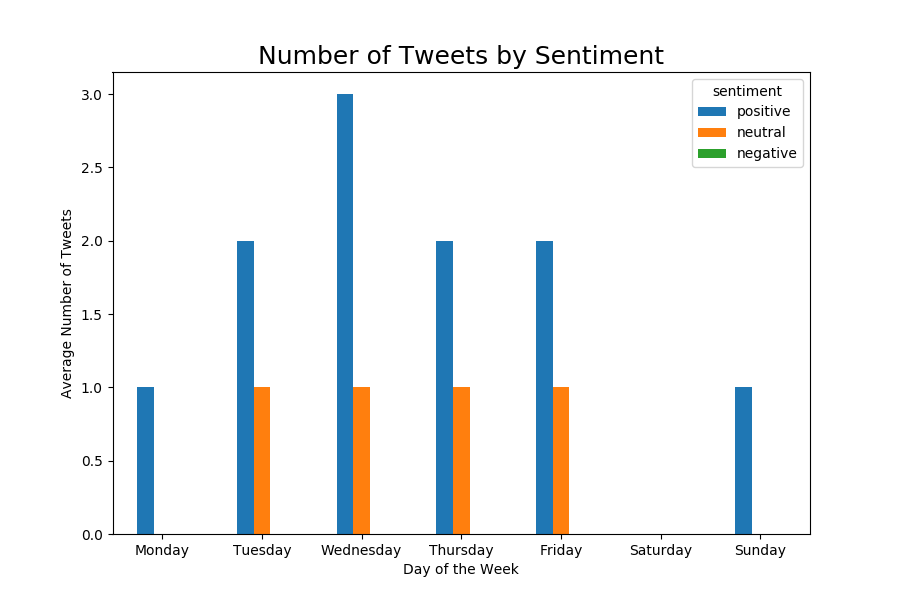
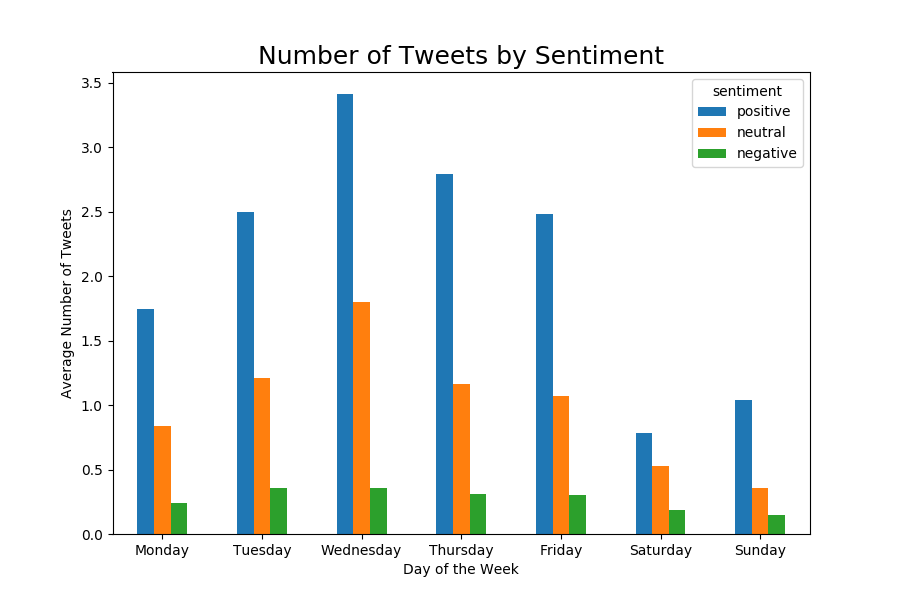
fwoop fixed it maybe

diff --git a/ShawTimelineAnalysis.py b/ShawTimelineAnalysis.py
@@ -22,6 +22,10 @@ auth = tweepy.OAuthHandler(consumer_key, consumer_secret)
 auth.set_access_token(access_token, access_token_secret)
 api = tweepy.API(auth,wait_on_rate_limit=True)
 
+################################################################################################
+# HELPER STUFF
+################################################################################################
+
 # Source: http://www.geeksforgeeks.org/twitter-sentiment-analysis-using-python/
 def get_tweet_sentiment(tweet):
     '''
@@ -39,7 +43,6 @@ def get_tweet_sentiment(tweet):
     else:
         return 'negative'
 
-
 # Source: https://stackoverflow.com/questions/6170246/how-do-i-use-matplotlib-autopct
 def make_autopct(values):
     def my_autopct(pct):
@@ -47,6 +50,23 @@ def make_autopct(values):
         val = int(round(pct*total/100.0))
         return '{p:.2f}%  ({v:d})'.format(p=pct,v=val)
     return my_autopct
+
+def get_sentiment_by_day(df):
+    df['sentiment'] = df.apply(lambda x: get_tweet_sentiment(x['text']), axis=1)
+    df['tweet_date'] = pd.to_datetime(df['tweet_date'])
+    df['day_of_week'] = df['tweet_date'].dt.weekday_name
+    df['week_index'] = df['tweet_date'].dt.weekday
+
+    df.sort_values('week_index', inplace=True)
+    df = df.drop(['week_index','text'],axis=1)
+    grouped = df.groupby(['sentiment','day_of_week'], sort=False)['day_of_week'].count().unstack('sentiment').fillna(0)
+
+    return grouped
+
+
+################################################################################################
+# PLOT STUFF
+################################################################################################
 
 # Reference: https://plot.ly/matplotlib/bar-charts/#matplotlib-bar-chart-with-dates
 # Creates a pie chart of postive/negative/neutral for tweets
@@ -74,18 +94,6 @@ def plot_sentiment_numbers(source,df):
         plt.tight_layout()
         plt.show()
 
-def get_sentiment_by_day(df):
-    df['sentiment'] = df.apply(lambda x: get_tweet_sentiment(x['text']), axis=1)
-    df['tweet_date'] = pd.to_datetime(df['tweet_date'])
-    df['day_of_week'] = df['tweet_date'].dt.weekday_name
-    df['week_index'] = df['tweet_date'].dt.weekday
-
-    df.sort_values('week_index', inplace=True)
-    df = df.drop(['week_index','text'],axis=1)
-    grouped = df.groupby(['sentiment','day_of_week'], sort=False)['day_of_week'].count().unstack('sentiment').fillna(0)
-
-    return grouped
-
 # Creates a bar chart for the TOTAL number of tweets by sentiment for each day of the week
 def plot_sentiment_per_day(source,df):
     if not df.empty:
@@ -106,14 +114,18 @@ def plot_avg_per_day(source,df):
     if not df.empty:
         grouped = get_sentiment_by_day(df)
 
+        print(grouped)
+
         df.sort_values('tweet_date', inplace=True)
         monday1 = (df.tweet_date[0] - timedelta(days=df.tweet_date[0].weekday()))
         monday2 = (df.tweet_date[len(df.index) - 1] - timedelta(days=df.tweet_date[len(df.index) - 1].weekday()))
-        total_weeks = (monday1 - monday2).days / 7
+        total_weeks = float ((monday1 - monday2).days / 7)
 
-        grouped['positive'] = grouped.apply(lambda x: x['positive'] / total_weeks, axis=1)
-        grouped['negative'] = grouped.apply(lambda x: x['negative'] / total_weeks, axis=1)
-        grouped['neutral'] = grouped.apply(lambda x: x['neutral'] / total_weeks, axis=1)
+        sentiments = ['positive','neutral','negative']
+        for s in sentiments:
+            grouped[s] = grouped.apply(lambda x: x[s] / total_weeks, axis=1)
+
+        print(grouped)
 
         fig = grouped.plot(kind='bar',stacked=False,rot='horizontal',figsize=(9,6), title='Number of Tweets by Sentiment')
         fig.set_xlabel("Day of the Week")
@@ -124,6 +136,11 @@ def plot_avg_per_day(source,df):
 
         plt.tight_layout()
         plt.show()
+
+
+################################################################################################
+# MAIN STUFF
+################################################################################################
 
 users = ['ShawHelp','ShawInfo']
 startDate = '2017-01-01'
@@ -150,8 +167,8 @@ def total_tweets_per_day():
         tweets =  pd.read_csv(user + '_tweets.csv', names=['tweet_date', 'text'],encoding='utf-8')
         plot_sentiment_per_day(user,tweets)
 
-    tweets =  pd.read_csv('shawtags.csv', names=['tweet_date', 'text'],encoding='utf-8')
-    plot_sentiment_per_day("hastag_shawInternet",tweets)
+    # tweets =  pd.read_csv('shawtags.csv', names=['tweet_date', 'text'],encoding='utf-8')
+    # plot_sentiment_per_day("hastag_shawInternet",tweets)
 #
 # sentiment_analysis()
 avg_tweets_per_day()
